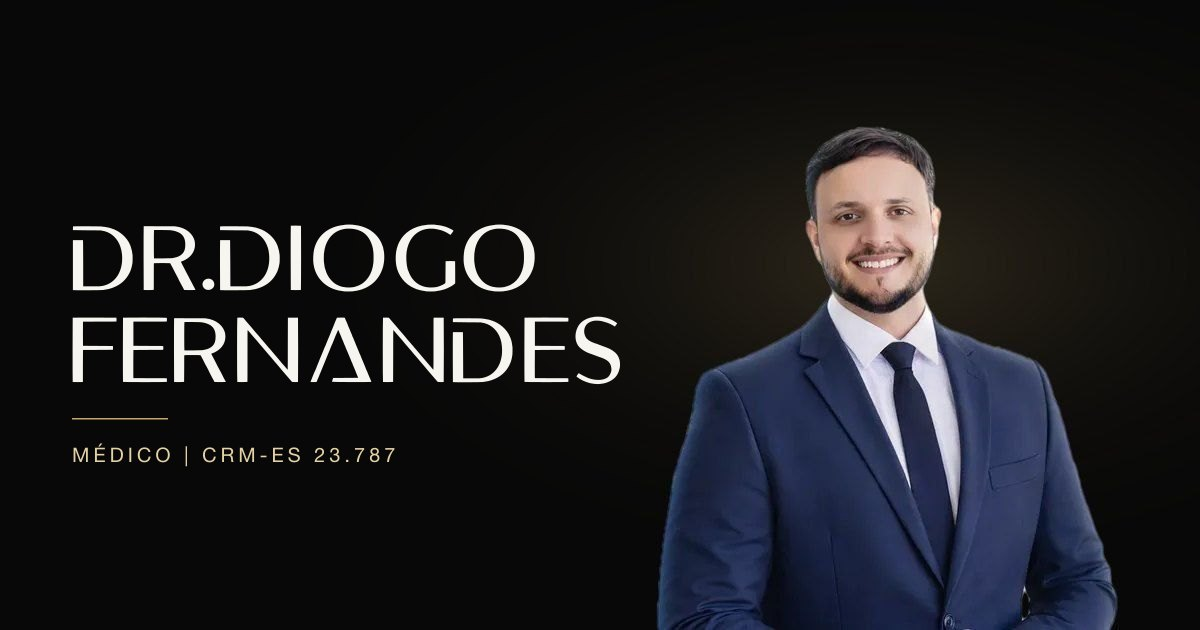
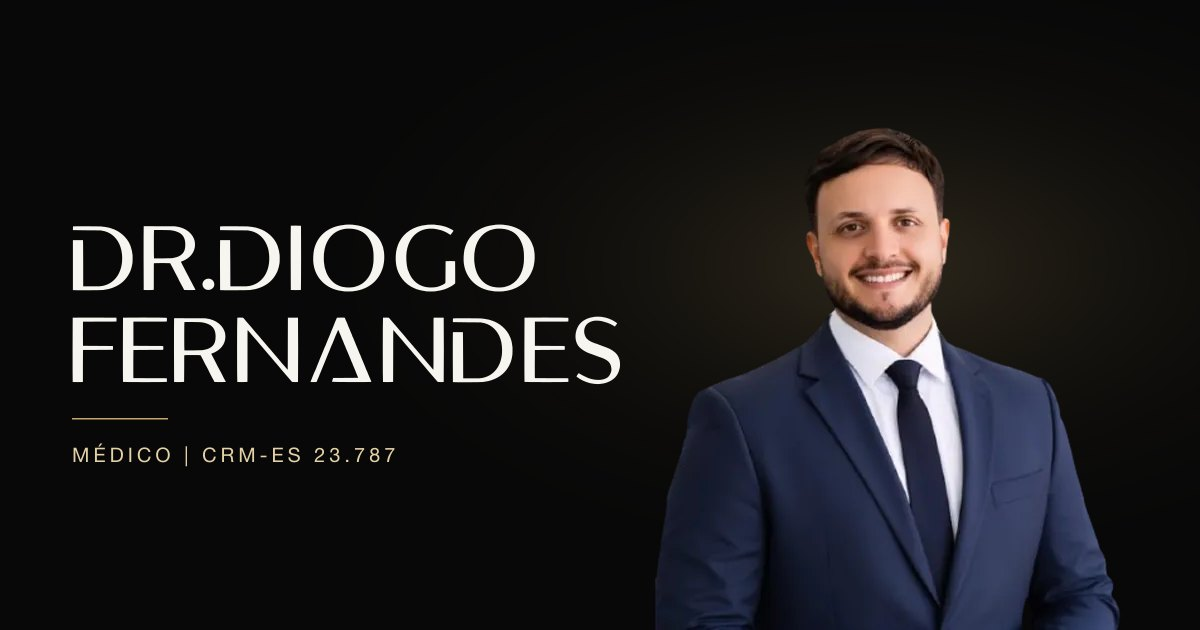
Troca a foto do site mantendo as posições

Changed region(s): [[0.5242, 0.181, 0.9558, 1.0]]

diff --git a/src/lib/site.ts b/src/lib/site.ts
@@ -14,8 +14,8 @@ export const SITE = {
  * `npm run media` e mantenha estes caminhos, ou aponte para os novos aqui.
  */
 export const PHOTOS = {
-  hero: { src: "/media/hero-figure.webp", width: 1024, height: 1536, alt: "Dr. Diogo Fernandes de terno azul-marinho, sorrindo, com as mãos entrelaçadas" },
-  portrait: { src: "/media/portrait.webp", width: 1174, height: 1468, alt: "Retrato do Dr. Diogo Fernandes de terno azul-marinho, com luz lateral" },
+  hero: { src: "/media/hero-figure-2.webp", width: 1024, height: 1536, alt: "Dr. Diogo Fernandes de terno azul-marinho, sorrindo, com as mãos entrelaçadas" },
+  portrait: { src: "/media/portrait-2.webp", width: 1174, height: 1468, alt: "Retrato do Dr. Diogo Fernandes de terno azul-marinho" },
 } as const;
 
 export const AREAS = [
